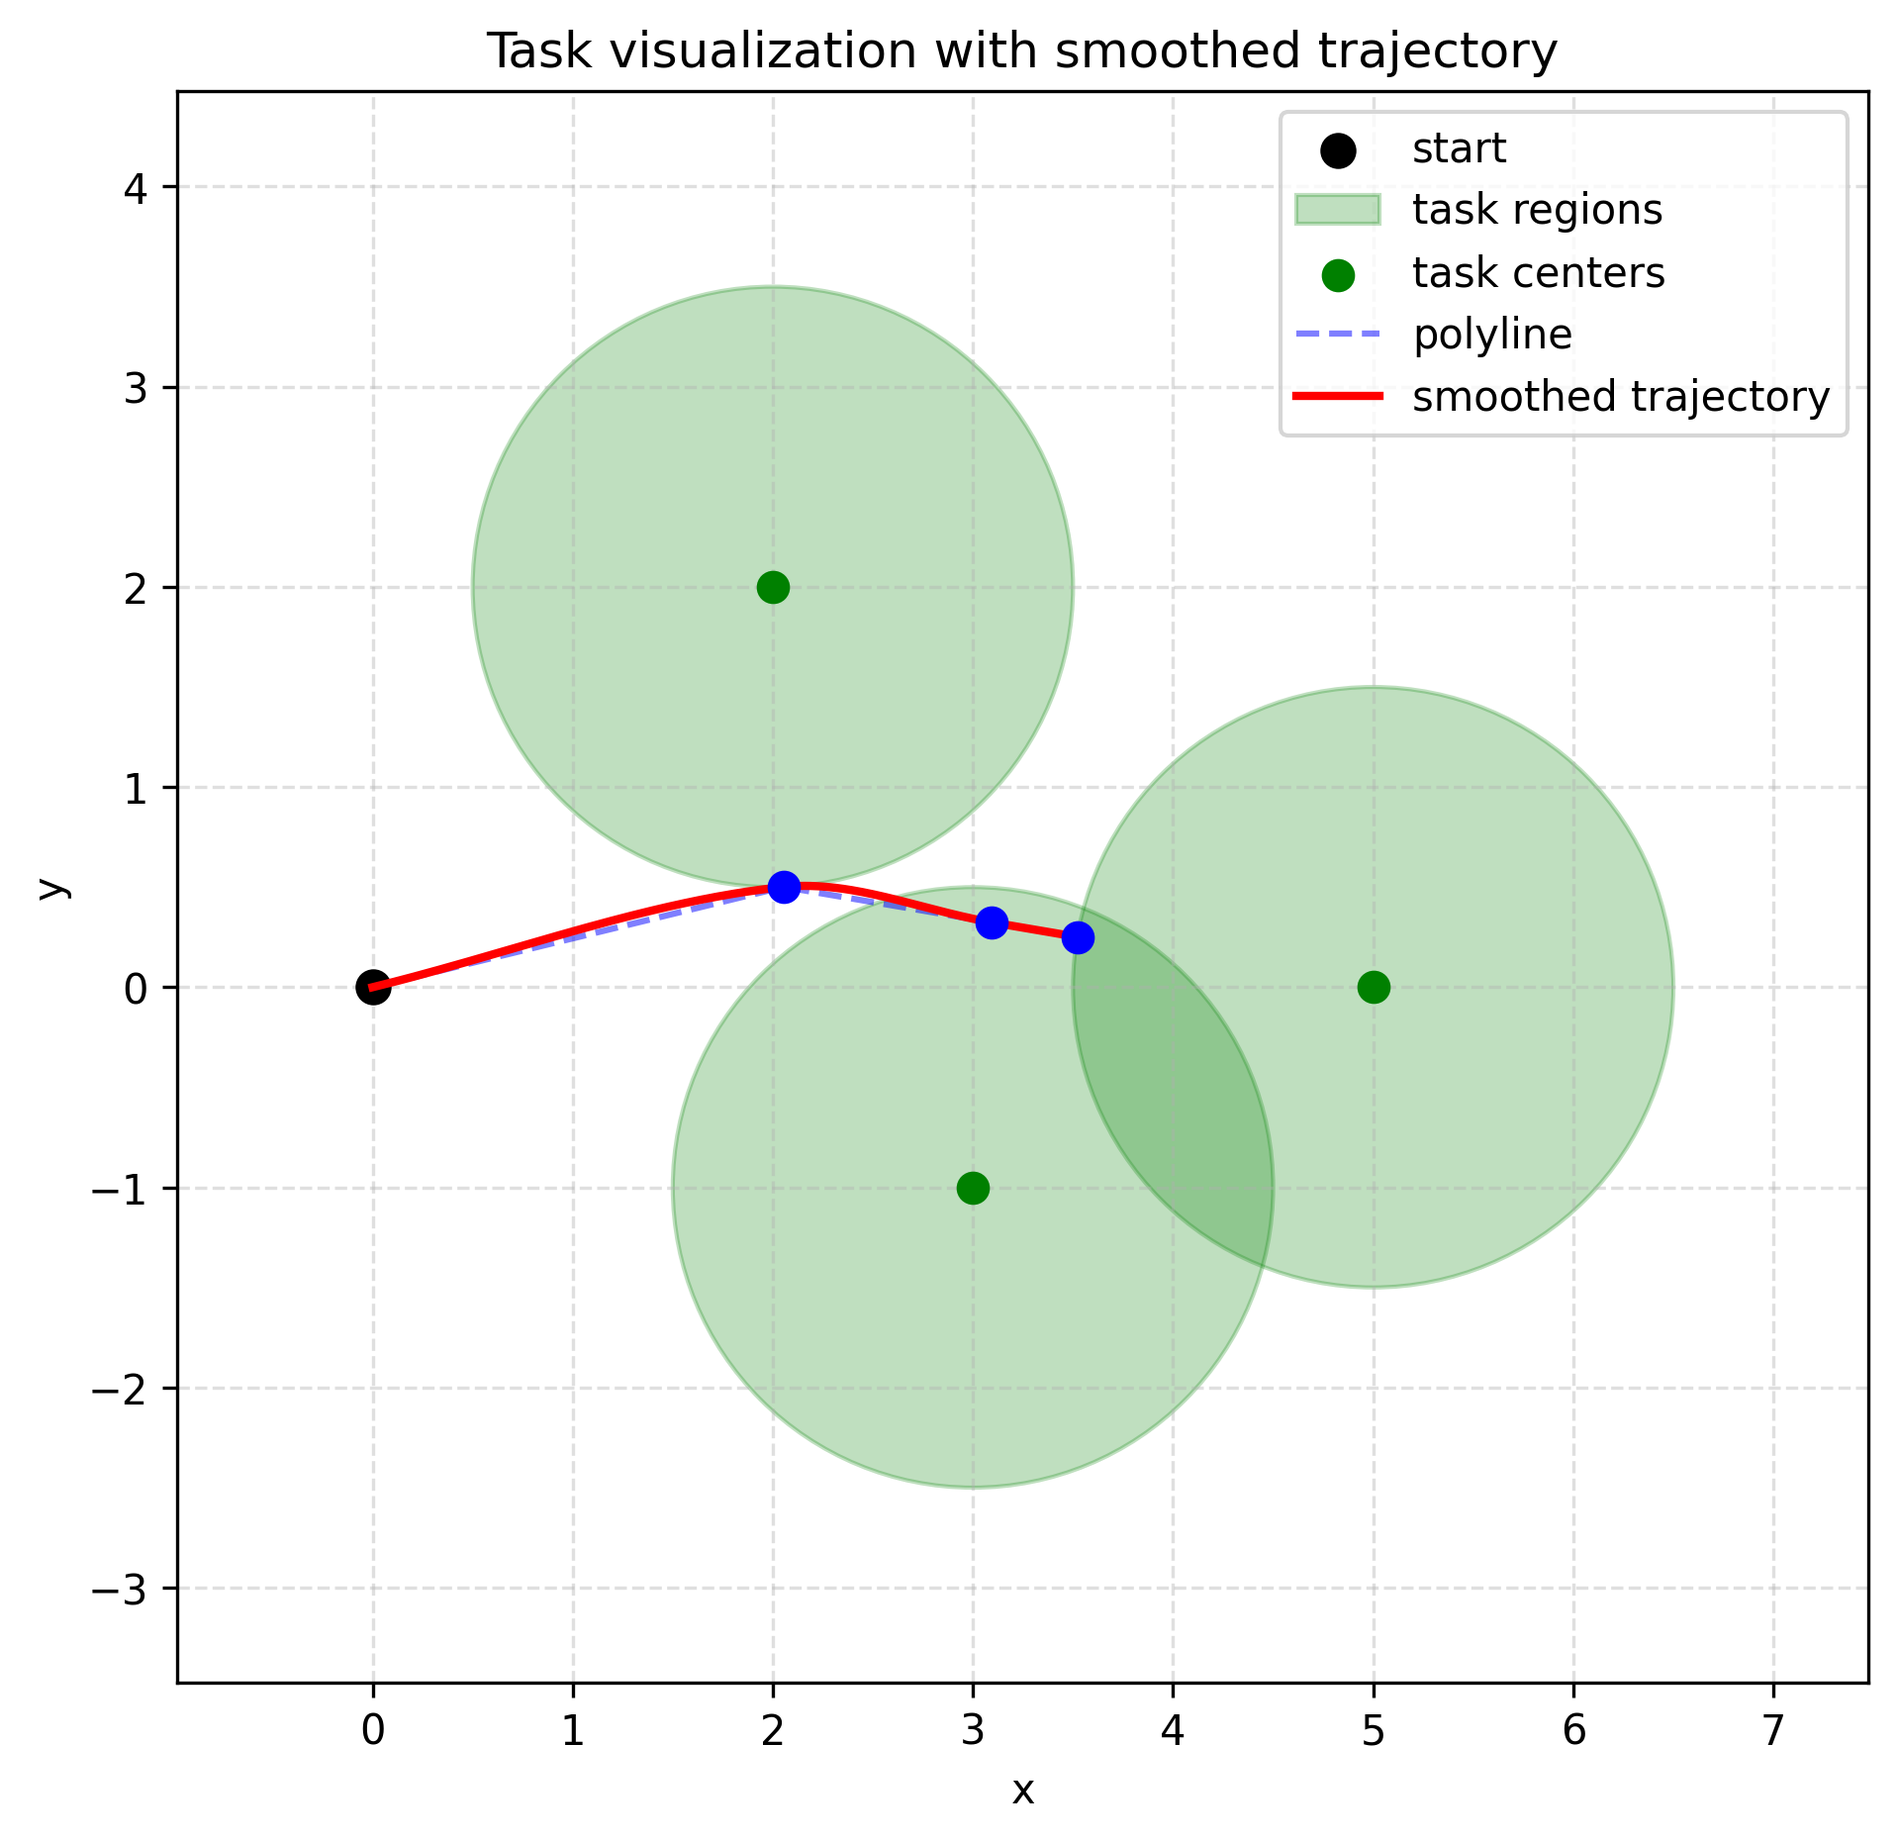
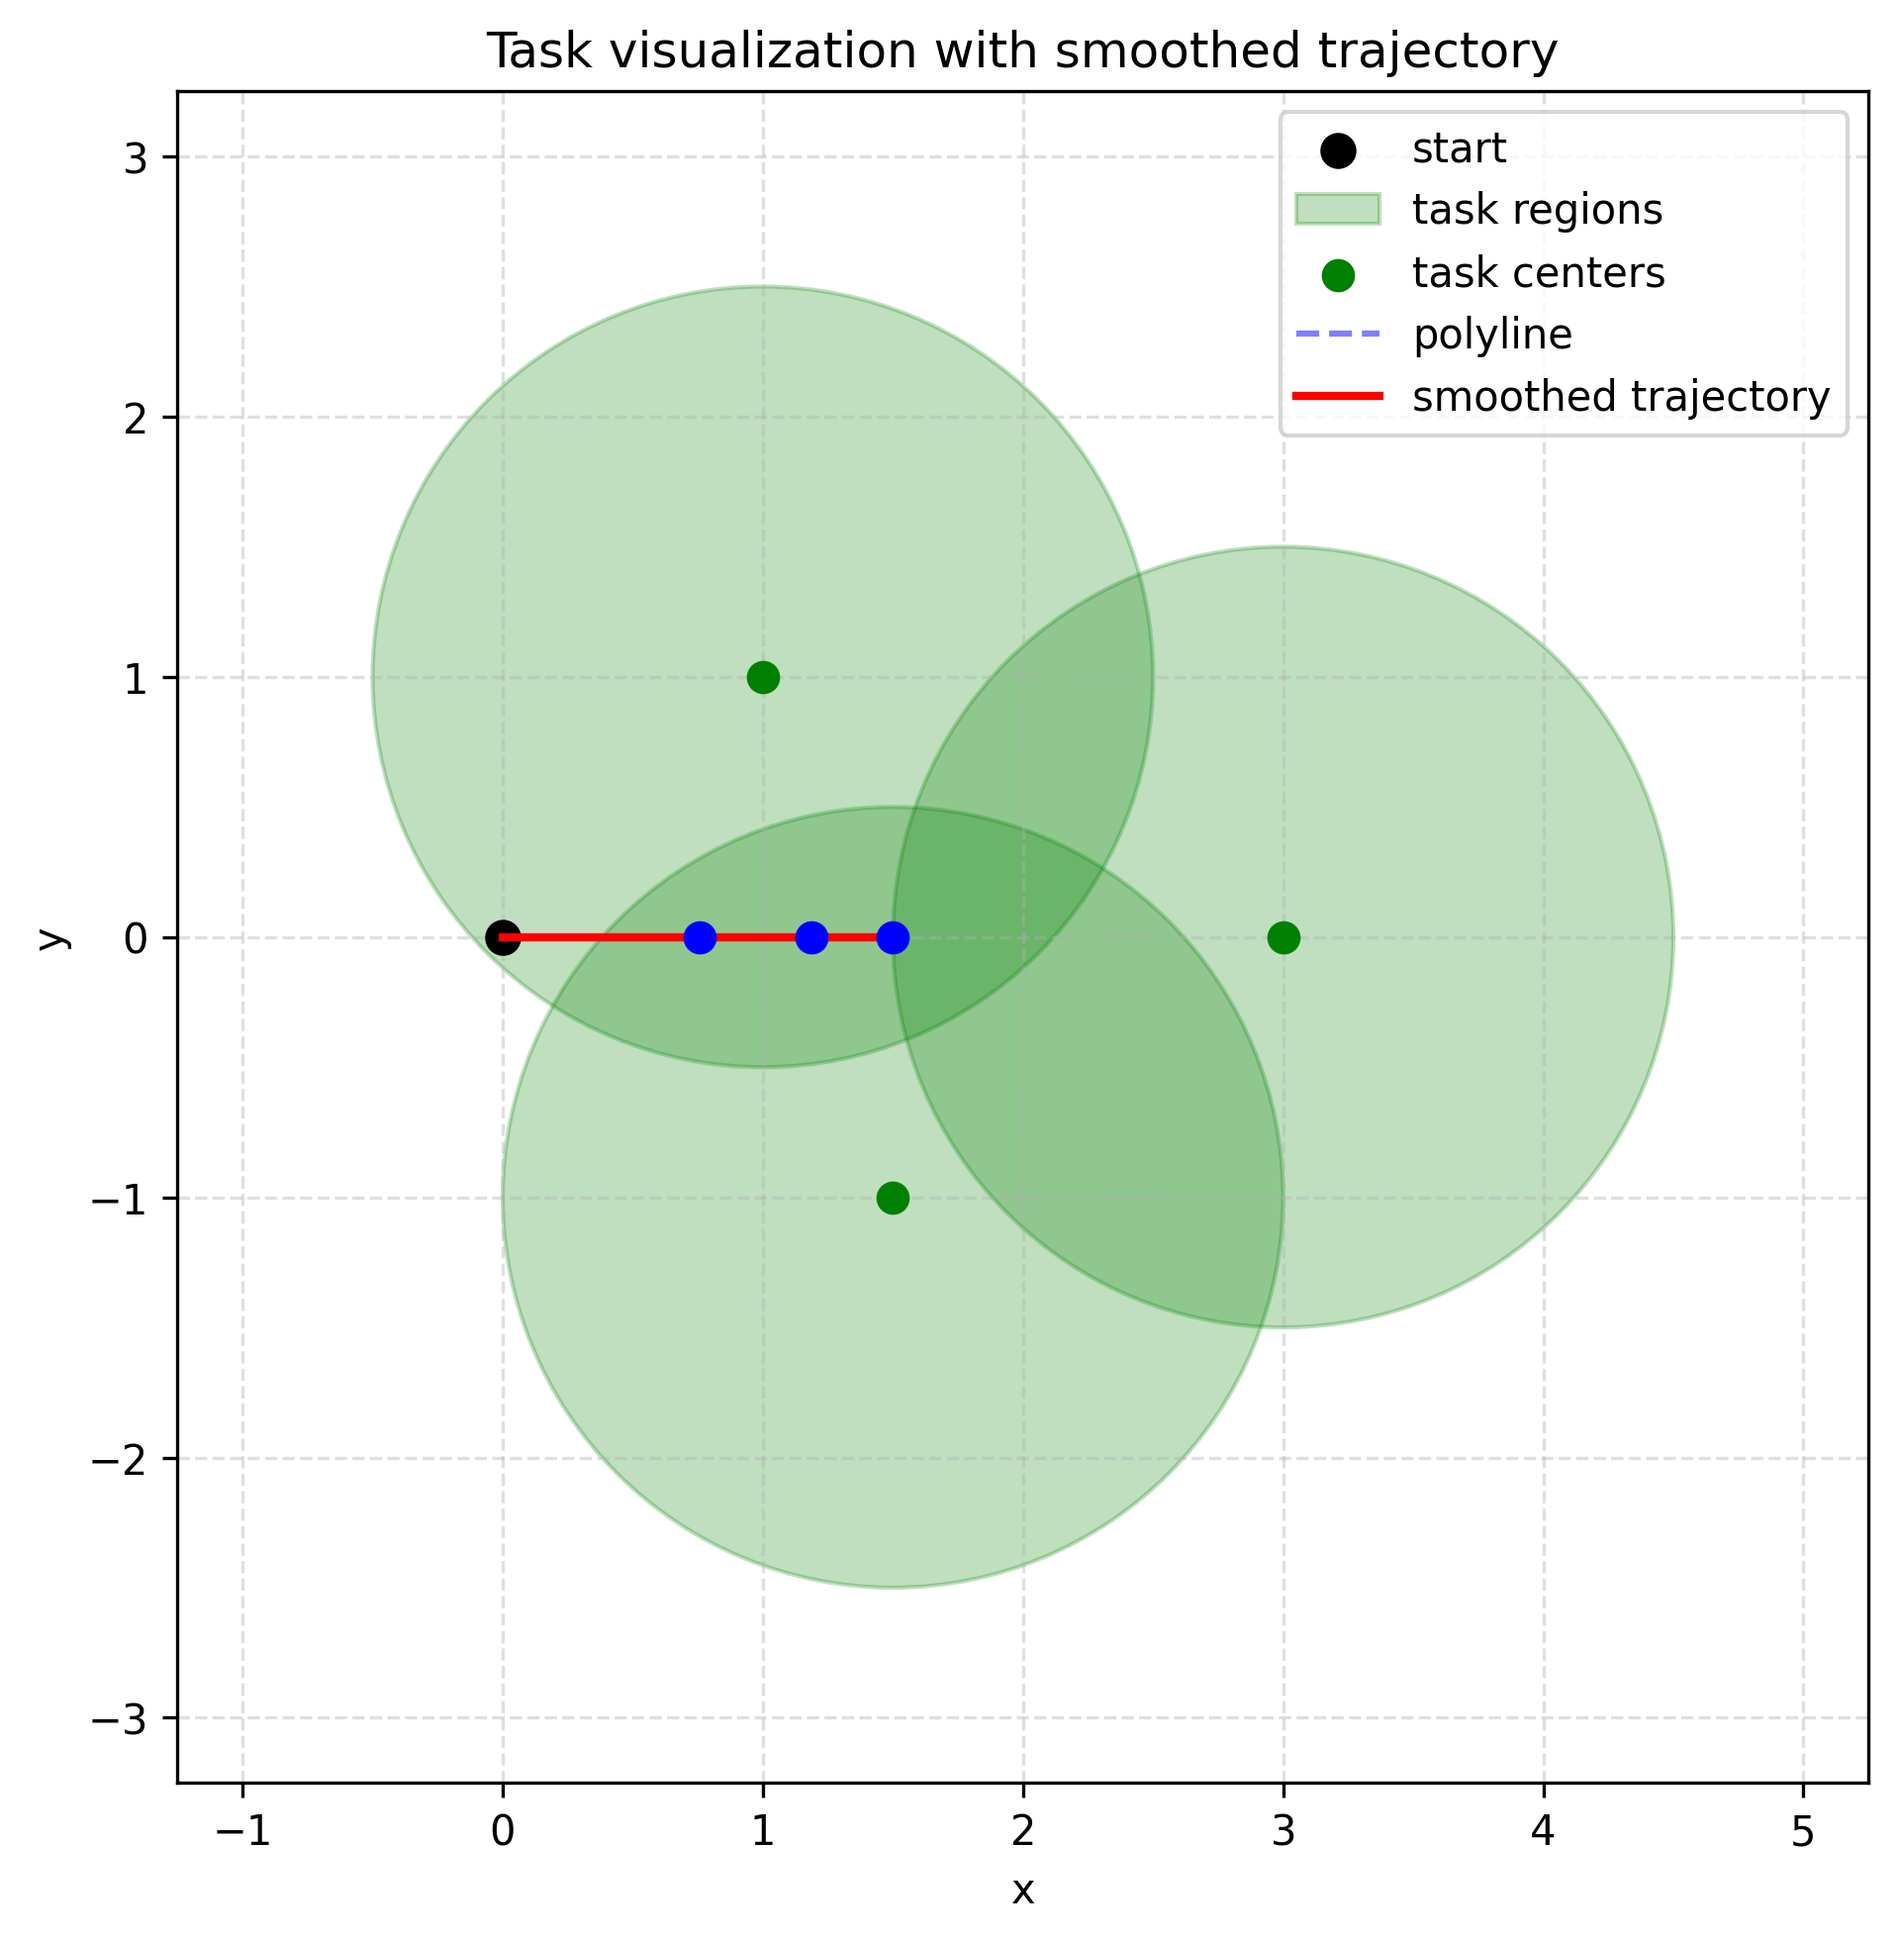
new traj

diff --git a/cvxpy_ws/plots/demo1/traj_opt.py b/cvxpy_ws/plots/demo1/traj_opt.py
@@ -92,22 +92,22 @@ def make_solver():
 if __name__ == "__main__":
     task1 = {
         "x0": np.array([0.0, 0.0]),
-        "c1": np.array([2.0, 2.0]),  "r1": 0.75,
-        "c2": np.array([3.0, -1.0]), "r2": 0.75,
-        "c3": np.array([5.0, 0.0]),  "r3": 0.75,
+        "c1": np.array([1.0, 1.0]),  "r1": 0.5,
+        "c2": np.array([1.5, -1.0]), "r2": 0.5,
+        "c3": np.array([3.0, 0.0]),  "r3": 0.5,
     }
     task2 = {
         "x0": np.array([0.0, 0.0]),
-        "c1": np.array([2.0, 2.0]),  "r1": 1.5,
-        "c2": np.array([3.0, -1.0]), "r2": 1.5,
-        "c3": np.array([5.0, 0.0]),  "r3": 1.5,
+        "c1": np.array([1.0, 1.0]),  "r1": 1.5,
+        "c2": np.array([1.5, -1.0]), "r2": 1.5,
+        "c3": np.array([3.0, 0.0]),  "r3": 1.5,
     }
 
     optimal_traj1 = solve(task1)
     optimal_traj2 = solve(task2)
 
     fmt = lambda vec: np.array2string(np.asarray(vec), precision=3, floatmode="fixed")
-    print("---------- TASK 1 (r = 0.75) ----------")
+    print("---------- TASK 1 (r = 0.5) ----------")
     print("[X1] base: ", fmt(-optimal_traj1["x1"]), "arm: ", fmt(task1["c1"] - optimal_traj1["x1"]))
     print("[X2] base: ", fmt(-optimal_traj1["x2"]), "arm: ", fmt(task1["c2"] - optimal_traj1["x2"]))
     print("[X3] base: ", fmt(-optimal_traj1["x3"]), "arm: ", fmt(task1["c3"] - optimal_traj1["x3"]))
@@ -116,5 +116,5 @@ if __name__ == "__main__":
     print("[X2] base: ", fmt(-optimal_traj2["x2"]), "arm: ", fmt(task2["c2"] - optimal_traj2["x2"]))
     print("[X3] base: ", fmt(-optimal_traj2["x3"]), "arm: ", fmt(task2["c3"] - optimal_traj2["x3"]))
     
-    plot_task_smooth(task1, optimal_traj1, save_path="cvxpy_ws/plots/demo1/optimal_traj_0.75.png")
+    plot_task_smooth(task1, optimal_traj1, save_path="cvxpy_ws/plots/demo1/optimal_traj_0.5.png")
     plot_task_smooth(task2, optimal_traj2, save_path="cvxpy_ws/plots/demo1/optimal_traj_1.5.png")

diff --git a/catkin_ws/src/anymal_custom_control/scripts/trajectories/demo1_3x_task_r1p5.py b/catkin_ws/src/anymal_custom_control/scripts/trajectories/demo1_3x_task_r1p5.py
@@ -1,13 +1,13 @@
 # ANYmal waypoints: (dx, dy, dyaw) displacements from start pose [meters, rad]
 ANYMAL_WAYPOINTS = [
-    (-2.053, -0.501, 0.0),     # waypoint 1: 0.5m forward
-    (-3.093, -0.324, 0.0),     # waypoint 2: hold x, 0.3m left
-    (-3.521, -0.251, 0.0),     # waypoint 3: another 0.5m forward
+    (-0.7588,  0.0, 0.0),   # waypoint 1
+    (-1.1870,  0.0, 0.0),  # waypoint 2
+    (-1.5000,  0.0, 0.0),  # waypoint 3
 ]
 
 # Arm EE waypoints: (x, y, z) target positions in arm base frame [meters]
 ARM_WAYPOINTS = [
-    (-0.053, 1.499, 0.5),     # waypoint 1
-    (-0.093, -1.324, 0.5),     # waypoint 2
-    (1.479, -0.251, 0.5),     # waypoint 3
+    (0.2410,  1.0000, 0.5),   # waypoint 1
+    (0.3130, -1.0000, 0.5),   # waypoint 2
+    (1.5000,  0.000001287, 0.5),  # waypoint 3
 ]

diff --git a/catkin_ws/src/anymal_custom_control/scripts/trajectories/demo1_3x_task_r0p5.py b/catkin_ws/src/anymal_custom_control/scripts/trajectories/demo1_3x_task_r0p5.py
@@ -1,0 +1,13 @@
+# ANYmal waypoints: (dx, dy, dyaw) displacements from start pose [meters, rad]
+ANYMAL_WAYPOINTS = [
+    (-0.895, -0.511, 0.0),     # waypoint 1: 0.5m forward
+    (-1.642,  0.521, 0.0),     # waypoint 2: hold x, 0.3m left
+    (-2.533,  0.179, 0.0),     # waypoint 3: another 0.5m forward
+]
+
+# Arm EE waypoints: (x, y, z) target positions in arm base frame [meters]
+ARM_WAYPOINTS = [
+    (0.105, 0.489, 0.5),     # waypoint 1
+    (-0.142, -0.479, 0.5),     # waypoint 2
+    (0.467, 0.179, 0.5),     # waypoint 3
+]
